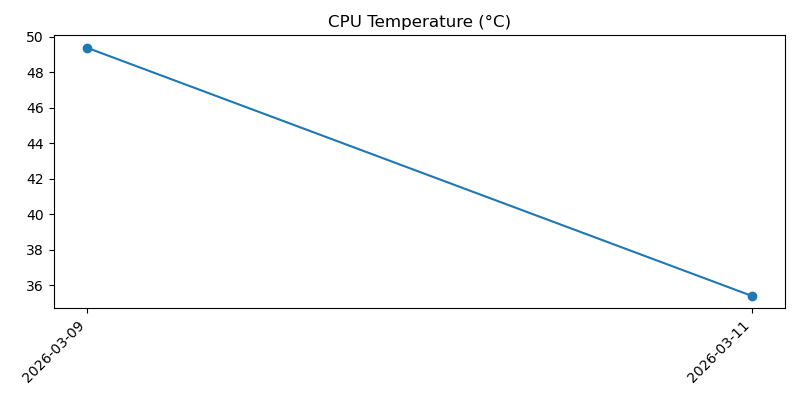
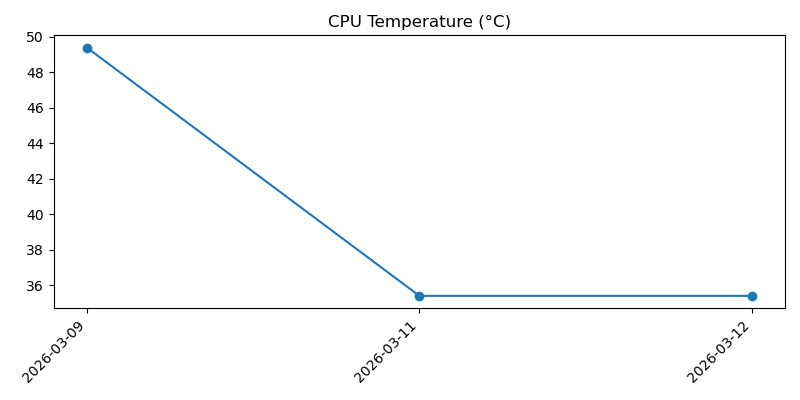
Record daily machine check

diff --git a/2026-03.md b/2026-03.md
@@ -67,3 +67,37 @@
 - Overall: Good
 - Warning: None
 
+## 2026-03-12 12:10:40
+
+### Machine
+- Uptime: up 2 days, 18 hours, 31 minutes
+- CPU load (1m, 5m, 15m): 0.00, 0.00, 0.00
+- RAM used: 179 MB / 921 MB (19.5%)
+- Disk used (/): 3.4 GB / 28.8 GB (11.9%)
+- Free disk space (/): 24.1 GB
+- CPU temp: 35.4°C
+- Voltage / throttling: OK
+
+### Reachability
+- Internet check (1.1.1.1): Reachable (3.8 ms)
+
+### Weather
+- Madrid:
+  - Condition: Poco nuboso
+  - Max temp: 17°C
+  - Min temp: 6°C
+  - Feels like: 10°C
+  - Chance of rain: 0%
+  - Warnings: None reported
+- Barcelona:
+  - Condition: Muy nuboso con lluvia escasa
+  - Max temp: 17°C
+  - Min temp: 11°C
+  - Feels like: 14°C
+  - Chance of rain: 55%
+  - Warnings: None reported
+
+### Health
+- Overall: Good
+- Warning: None
+
